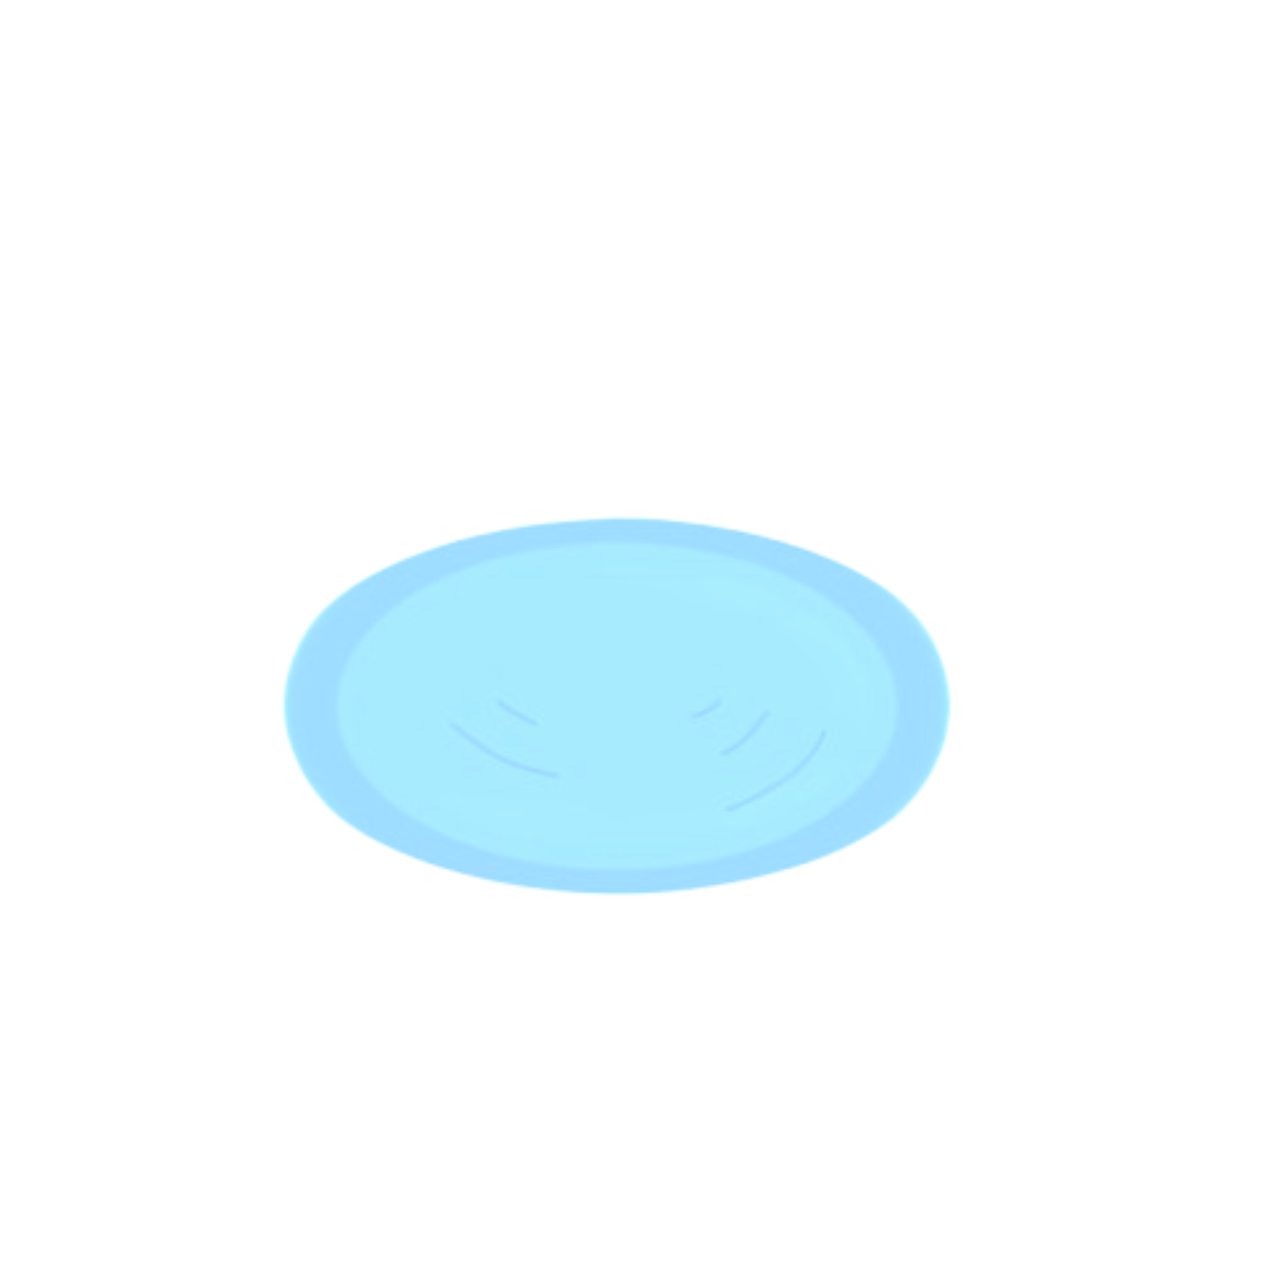
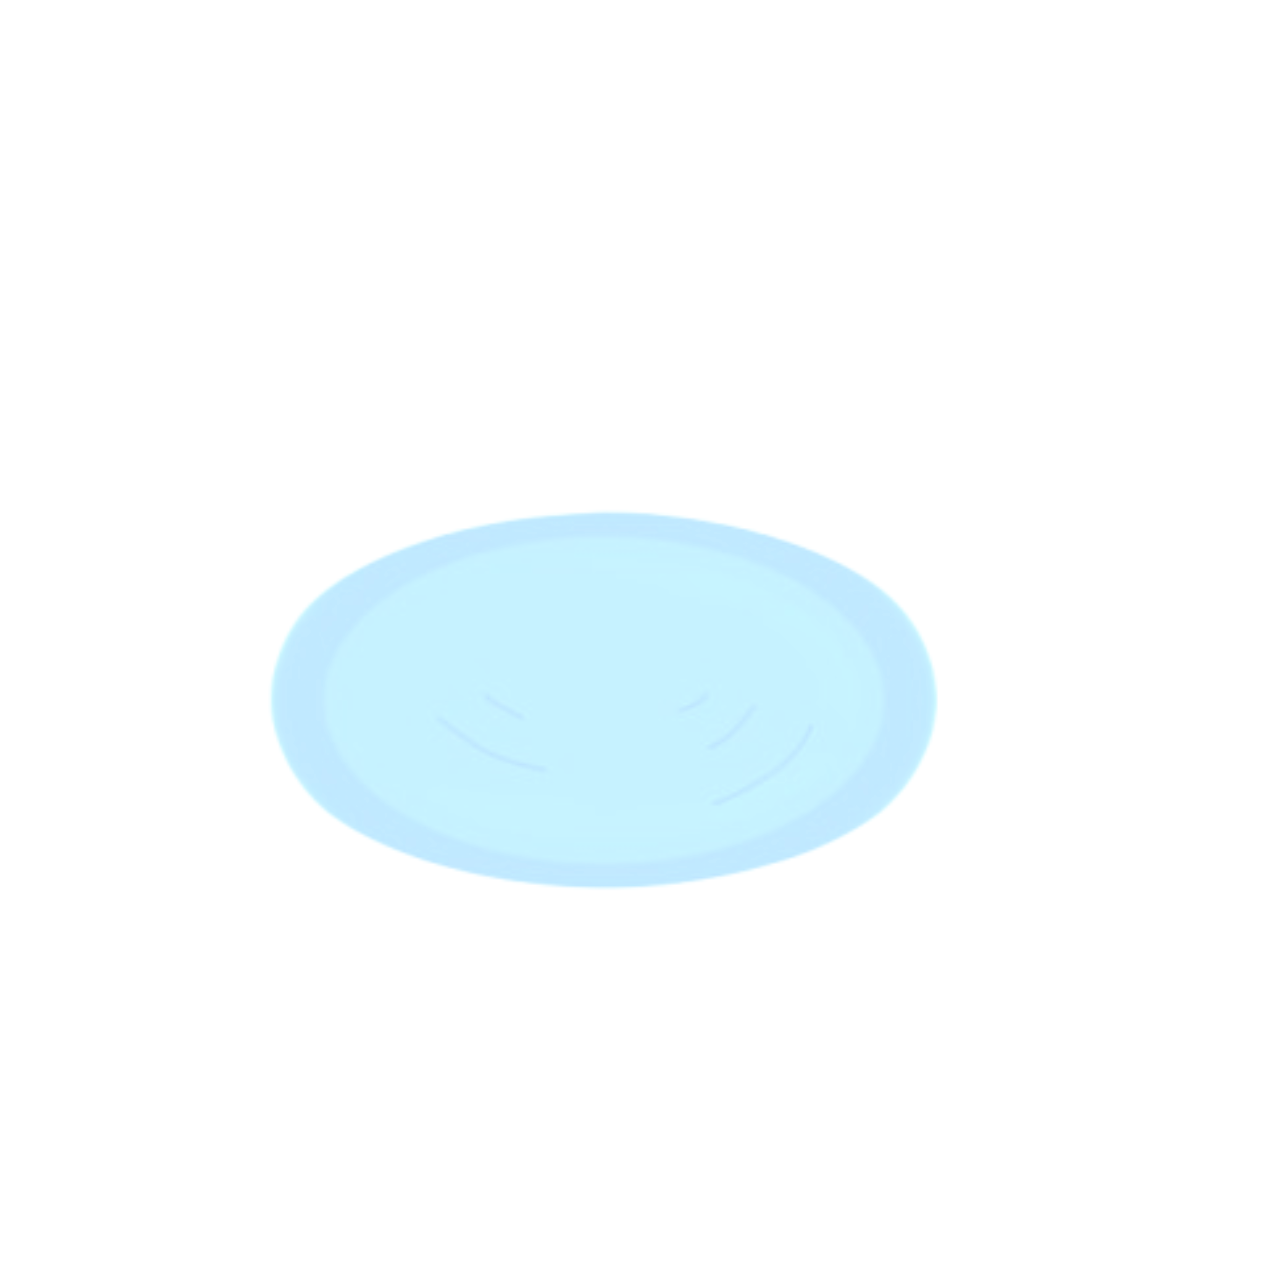
?

Changed region(s): [[0.1875, 0.375, 0.75, 0.7188]]

diff --git a/spam-pie/src/routes/make_sheet2/(my-app)/+page.svelte b/spam-pie/src/routes/make_sheet2/(my-app)/+page.svelte
@@ -11,15 +11,14 @@
     let ingredient = null;
 
     const ingred = {
-        ion:"/src/public/element/otherthing/otherelement/ion.png",
-        bod:"/src/public/element/otherthing/otherelement/bod.png",
-        juice:"/src/public/element/otherthing/otherelement/juice.png",
-        water:"/src/public/element/otherthing/otherelement/water.PNG",
-        milk:"/src/public/element/otherthing/otherelement/milk.PNG",
-        yorg:"/src/public/element/otherthing/otherelement/yog.PNG"
+        ion:"/src/public/element/otherthing/otherelement/ion2.png",
+        bod:"/src/public/element/otherthing/otherelement/bod2.png",
+        juice:"/src/public/element/otherthing/otherelement/juice2.png",
+        water:"/src/public/element/otherthing/otherelement/water2.PNG",
+        milk:"/src/public/element/otherthing/otherelement/milk2.PNG",
+        yorg:"/src/public/element/otherthing/otherelement/yorg2.PNG"
     };
 
-    const parkmagarine = "/src/public/element/otherthing/otherelement/bowl_powder_maga.png";
     let selectedIngredient = null;
     let id1 = null;
 
@@ -53,6 +52,7 @@
 
 
     function updateIngredientImage(ingredient) {
+        
         selectedIngredient = ingredient;
         document.querySelector('.bowl').src = ingred[ingredient];
     }
@@ -86,10 +86,11 @@
     <img src={next_button} alt="버튼" class="buten"/>
     </button>
 
+<<<<<<< HEAD
     <div class="Button">
-        <button
-    class="ion {selectedIngredient === 'ion' ? 'selected' : ''}"
-    onclick={() => updateIngredientImage('ion')}>이온음료</button>
+    <button
+        class="ion {selectedIngredient === 'ion' ? 'selected' : ''}"
+        onclick={() => updateIngredientImage('ion')}>이온음료</button>
 
     <button
     class="bod {selectedIngredient === 'bod' ? 'selected' : ''}"
@@ -97,41 +98,45 @@
 
     <button
         class="juice {selectedIngredient === 'juice' ? 'selected' : ''}"
-        onclick={() => updateIngredientImage('')}>주스</button>
+        onclick={() => updateIngredientImage('juice')}>주스</button>
+=======
+
+<div class="Button">
+    <button class="ion {selectedIngredient === 'ion' ? 'selected' : ''}" onclick={() => updateIngredientImage('ion')}>이온음료</button>
+    <button class="bod {selectedIngredient === 'bod' ? 'selected' : ''}" onclick={() => updateIngredientImage('bod')}>보드카</button>
+    <button class="juice {selectedIngredient === 'juice' ? 'selected' : ''}" onclick={() => updateIngredientImage('juice')}>주스</button>
+>>>>>>> 4be7c012c733142d7a2947dca87cd84ef71c5905
 </div>
 
 <div class="Button2">
-    <button
-        class="water {selectedIngredient === 'water' ? 'selected' : ''}"
-        onclick={() => updateIngredientImage('water')}>물</button>
-
-    <button
-        class="milk {selectedIngredient === 'milk' ? 'selected' : ''}"
-        onclick={() => updateIngredientImage('milk')}>우유</button>
-
-    <button
-        class="yorg {selectedIngredient === 'yorg' ? 'selected' : ''}"
-        onclick={() => updateIngredientImage('yorg')}>요구르트</button>
+    <button class="water {selectedIngredient === 'water' ? 'selected' : ''}" onclick={() => updateIngredientImage('water')}>물</button>
+    <button class="milk {selectedIngredient === 'milk' ? 'selected' : ''}" onclick={() => updateIngredientImage('milk')}>우유</button>
+    <button class="yorg {selectedIngredient === 'yorg' ? 'selected' : ''}" onclick={() => updateIngredientImage('yorg')}>요구르트</button>
 </div>
 
 <style>
+
+
     .dot{
         position: absolute;
         top: 30vh;
-        left: 90vh;
+        left: 100vh;
         transform: translate(-50%, -50%);
         width: 50%;
-        height: 100%;
+<<<<<<< HEAD
+        height: 85%;
         z-index: 5;
     }
 
-    .ingred{
-        
+=======
+        height: 100%;
+        z-index: -5;
     }
+>>>>>>> 4be7c012c733142d7a2947dca87cd84ef71c5905
     .Button2{
     display: flex;
     position: absolute;
-    top: 85%;
+    top: 92%;
     left: 50%;
     transform: translate(-50%, -50%);
     justify-content: space-around;
@@ -141,7 +146,7 @@
     .Button {
         display: flex;
     position: absolute;
-    top: 70%;
+    top: 80%;
     left: 50%;
     transform: translate(-50%, -50%);
     justify-content: space-around;
@@ -152,7 +157,7 @@
         position: absolute;
         top: 50%;
         left: 85%;
-        z-index: 1;
+        z-index: -5;
     }
 
     .buten{
@@ -171,17 +176,30 @@
         height: 99.6%;
         width: 100%;
         background-color: #B475D0;
+<<<<<<< HEAD
+        z-index: -100;
+=======
+        z-index: -10;
         
+>>>>>>> 4be7c012c733142d7a2947dca87cd84ef71c5905
     }/*배경 대각선 그거*/
 
     .bowl{
+        opacity: 70%;
         overflow: hidden;
         position: absolute;
         width: 100vh;
+<<<<<<< HEAD
+        height: 90vh;
+        top: -15vh;
+        left: 52vh;
+        z-index: 6;
+=======
         height: 100vh;
         top: -20vh;
         left: 40vh;
-        z-index: 6;
+        z-index: -5;
+>>>>>>> 4be7c012c733142d7a2947dca87cd84ef71c5905
     }
     .pan{
         position: absolute;
@@ -195,8 +213,8 @@
     .sidebar{
         position: absolute;
         width: 80%;
-        height: 35%;
-        top: 77%;
+        height: 30%;
+        top: 84%;
         left: 50%;
         transform: translate(-50%, -50%);
         background-color: #9744bf;
@@ -219,6 +237,7 @@
         color: #FF7F00;      
         text-shadow: 5px 2px 3px #FDFECF;
         border: none;
+        z-index: 5;
         background-image: linear-gradient(
         to top left,
         rgba(0, 0, 0, 0.2),
@@ -227,6 +246,7 @@
         )
     }
     .bod{
+        position: relative;
         width: 35vh;
         height: 10vh;
         background-color: #FFD400;
@@ -242,6 +262,8 @@
         color: #FF7F00;      
         text-shadow: 5px 2px 3px #FDFECF;
         border: none;
+        z-index: 5;
+        
 
         background-image: linear-gradient(
         to top left,
@@ -266,6 +288,7 @@
         color: #FF7F00;      
         text-shadow: 5px 2px 3px #FDFECF;
         border: none;
+        z-index: 5;
 
         background-image: linear-gradient(
         to top left,
@@ -291,6 +314,7 @@
         color: #FF7F00;      
         text-shadow: 5px 2px 3px #FDFECF;
         border: none;
+        z-index: 5;
 
         background-image: linear-gradient(
         to top left,
@@ -316,6 +340,7 @@
         color: #FF7F00;      
         text-shadow: 5px 2px 3px #FDFECF;
         border: none;
+        z-index: 5;
 
         background-image: linear-gradient(
         to top left,
@@ -341,6 +366,7 @@
         color: #FF7F00;      
         text-shadow: 5px 2px 3px #FDFECF;
         border: none;
+        z-index: 5;
 
         background-image: linear-gradient(
         to top left,
